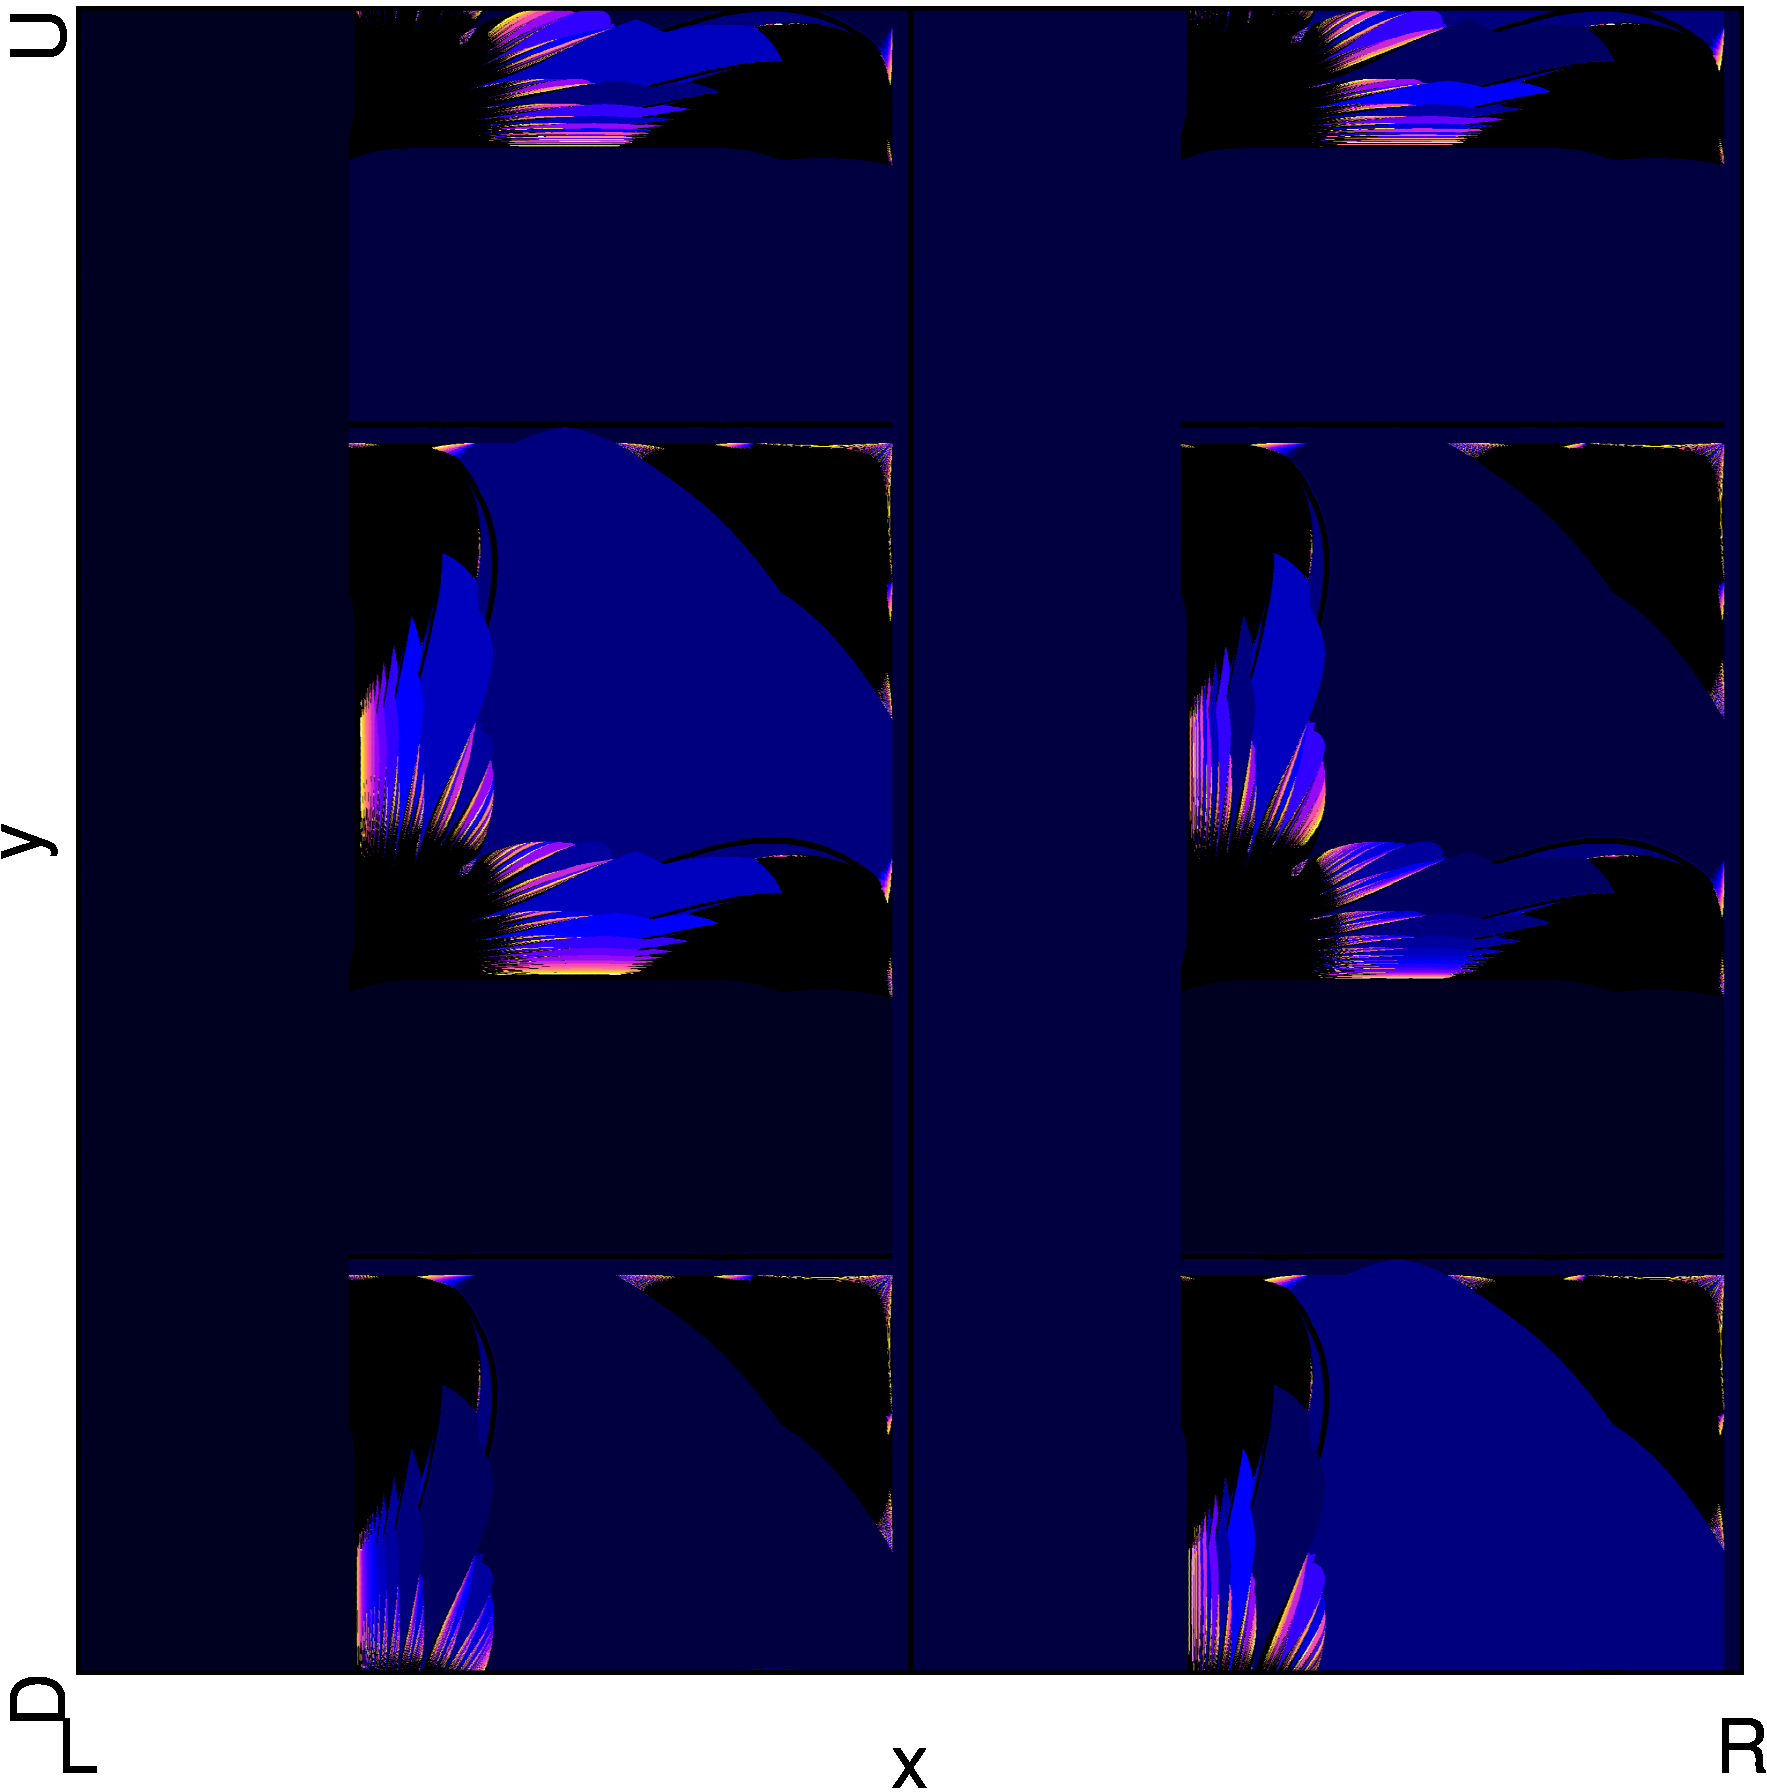
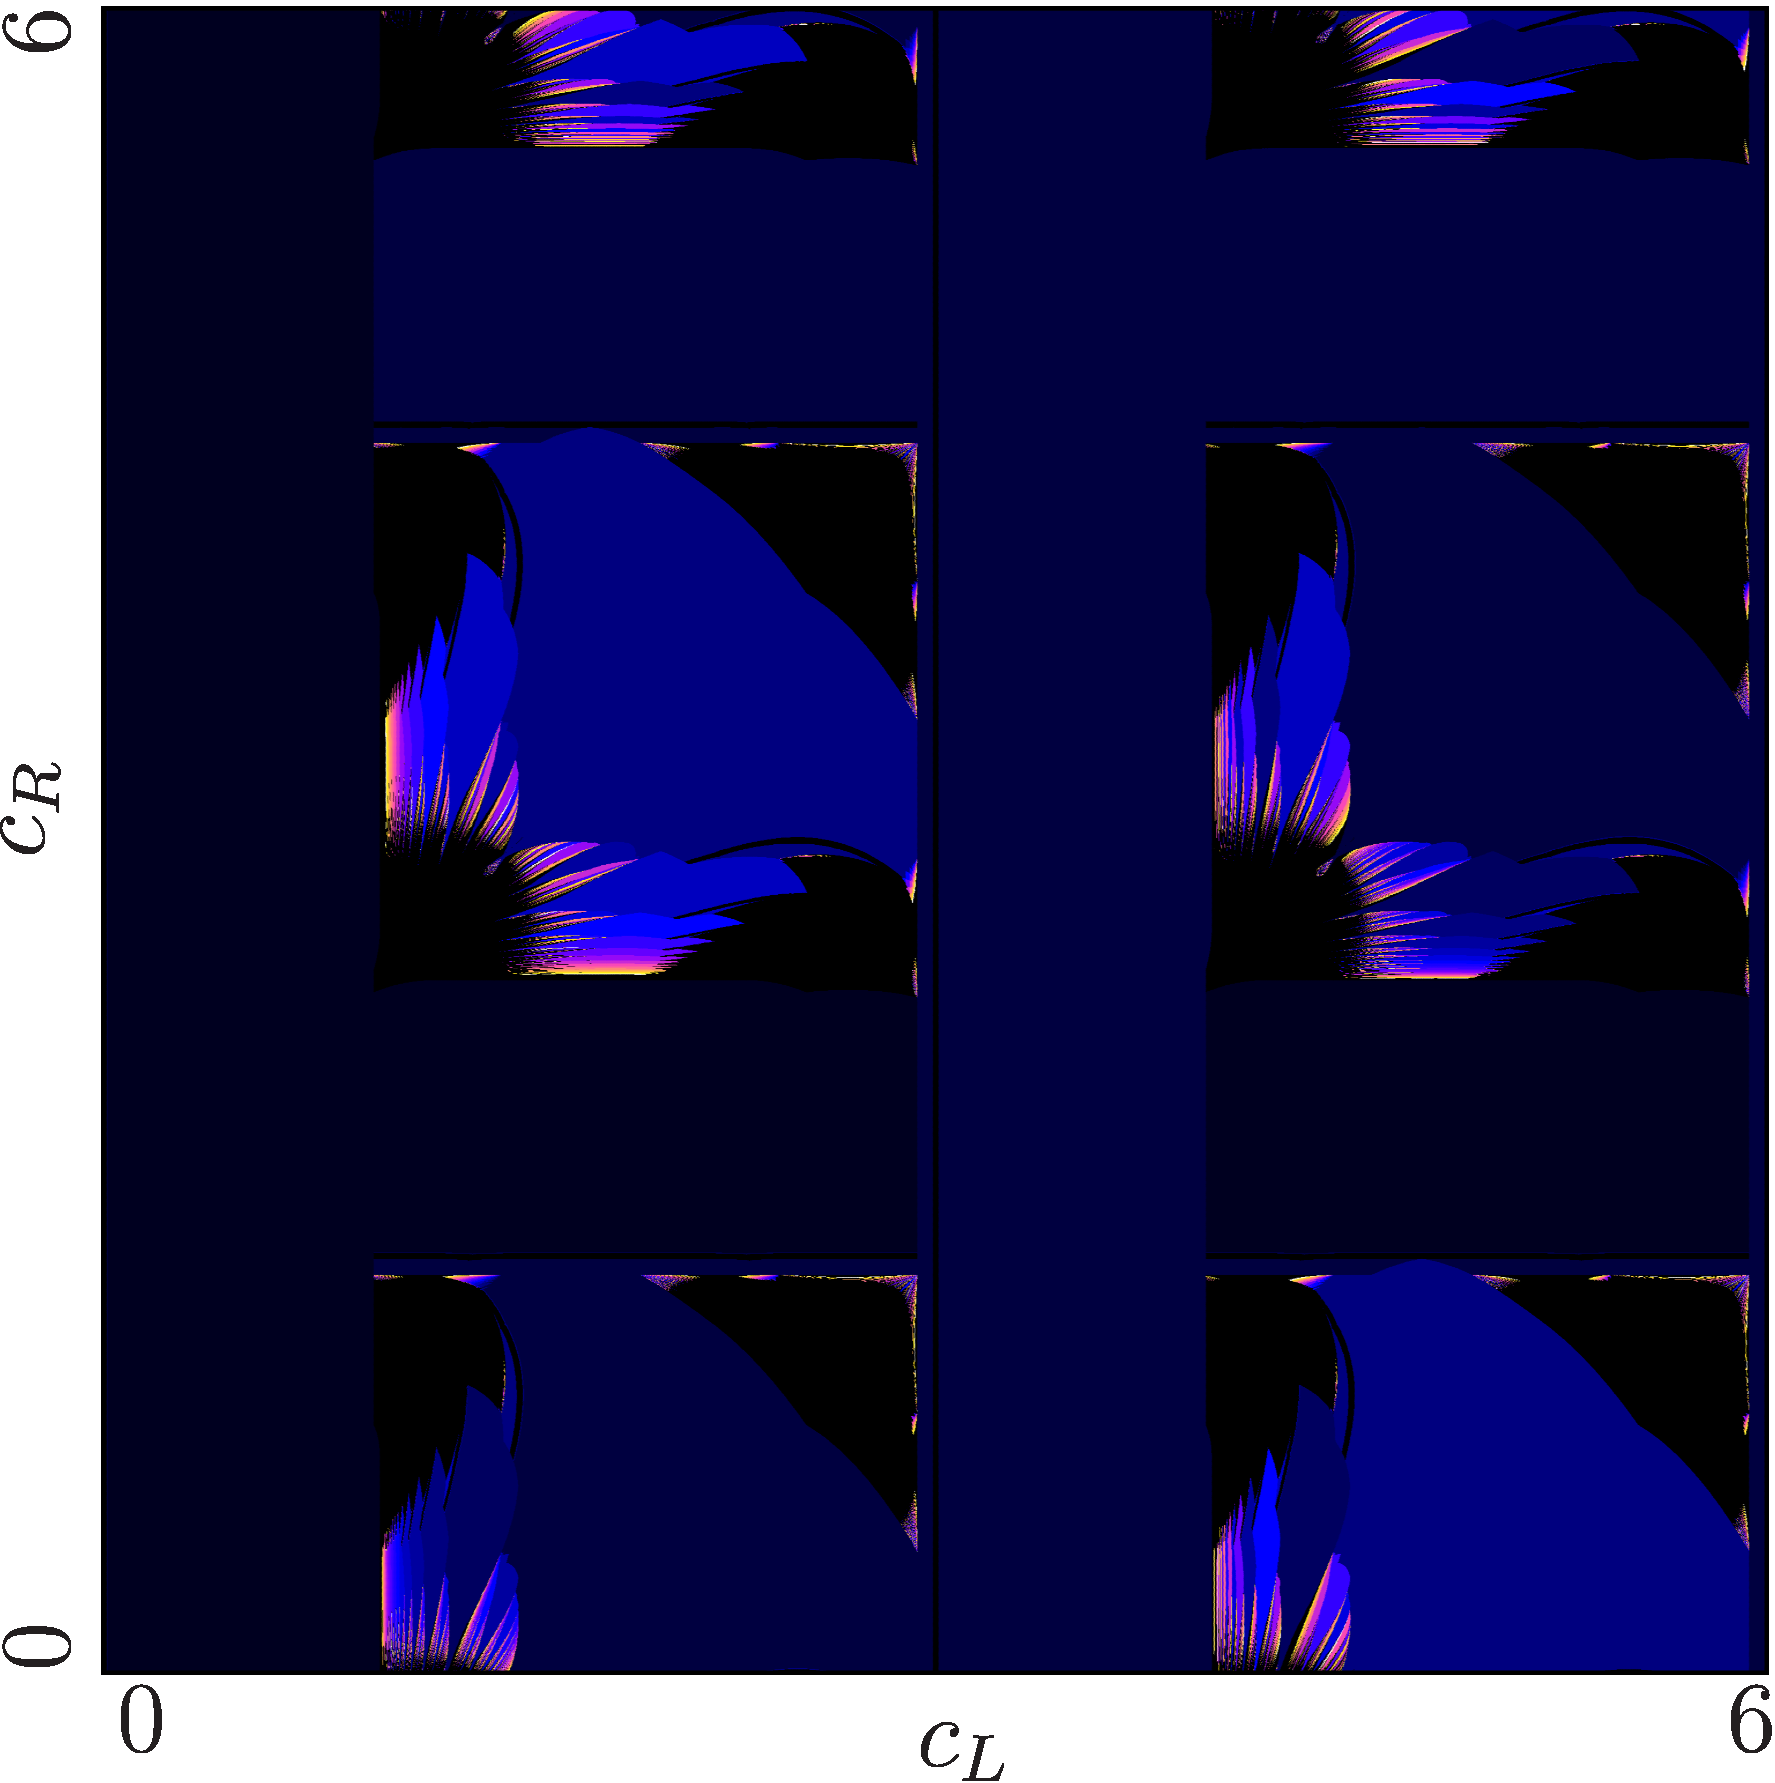
show 2d scans of quadratic

diff --git a/Report/Sections/50_Models/20_quadratic.tex b/Report/Sections/50_Models/20_quadratic.tex
@@ -32,3 +32,24 @@ Here all the 6 parameters $a_L, a_R, b_L, b_R, c_L,$ and $c_R$ act.
     s_R(x) & = s(x) - \frac{9}{4} \label{equ:quad.full.sr}
 \end{align}
 \end{subequations}
+
+\Cref{fig:quadratic.full.2d.full} shows a 2D-scan of the periods of the stable cycles.
+The parameters $a_L = a_R = 1$ and $b_L = b_R = 0$ are fixed and the parameters $c_L$ and $c_R$ are varied.
+Both are varied within the range $[0, 6]$ because beyond that the diagram just repeats infinitely.
+The structure in the bottom left corner is enhanced and depicted in \Cref{fig:quadratic.full.2d.z1}.
+\begin{figure}
+    \centering
+    \begin{subfigure}{0.4\textwidth}
+        \centering
+        \includegraphics[width=\textwidth]{21_Quadratic_mod6/2D_Period_Full/result.png}
+        \caption{Full}
+        \label{fig:quadratic.full.2d.full}
+    \end{subfigure}
+    \begin{subfigure}{0.4\textwidth}
+        \centering
+        \includegraphics[width=\textwidth]{21_Quadratic_mod6/2D_Period_Zoomed1/result.png}
+        \caption{Zoomed}
+        \label{fig:quadratic.full.2d.z1}
+    \end{subfigure}
+    \caption{2D Scan of Full Quadratic Model}
+\end{figure}
